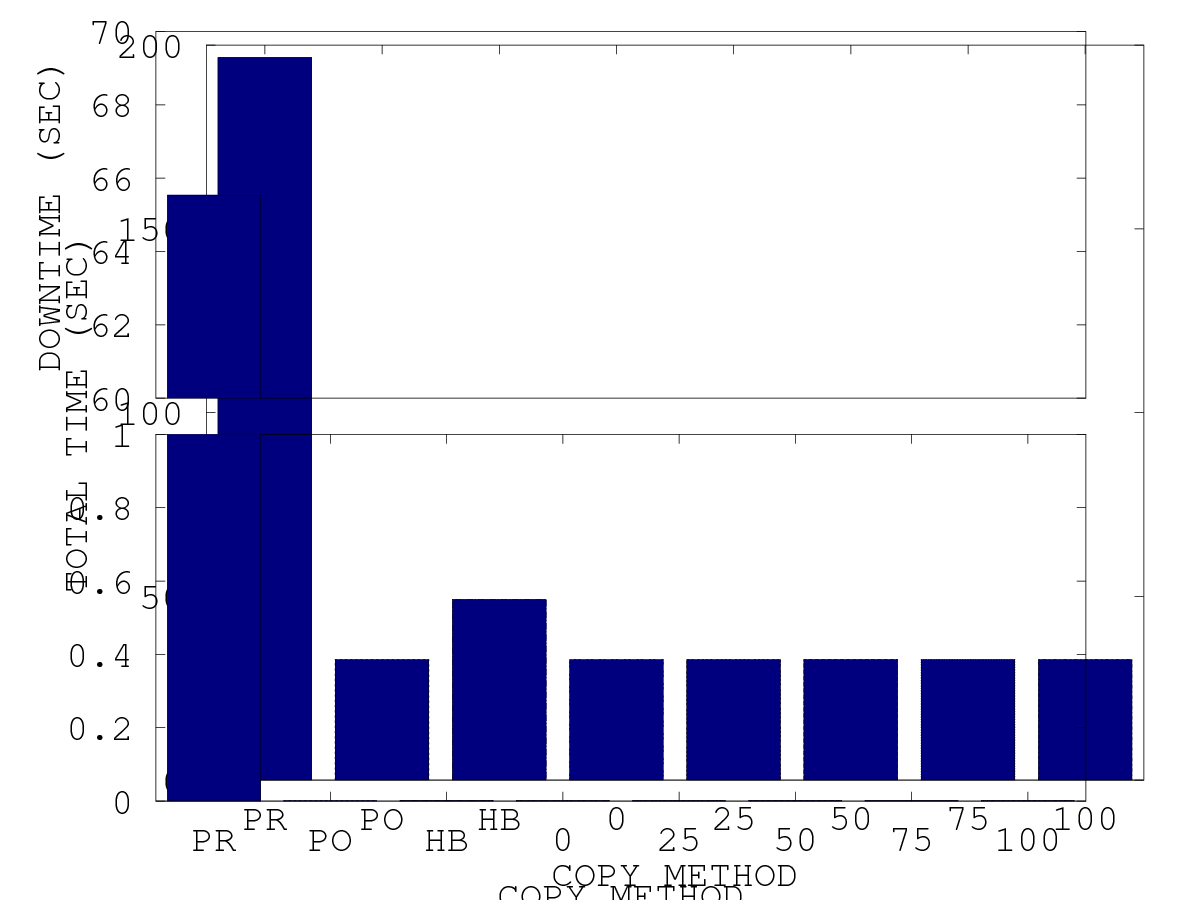
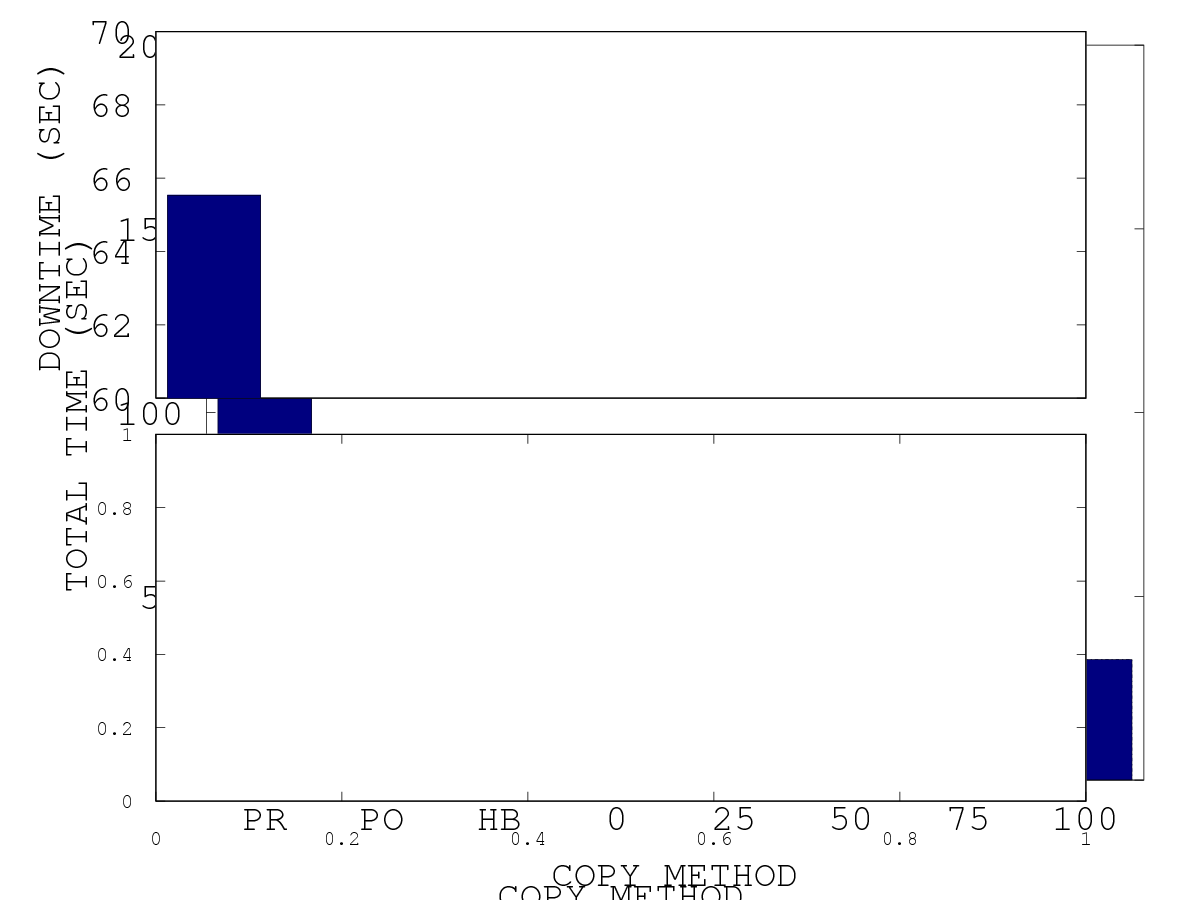
basic_break.m

diff --git a/basic_break.m b/basic_break.m
@@ -319,9 +319,9 @@ delete(gcf);
 a1 = axes ('position', [p0(1) p0(2) p0(3) p0(4)/2]);
 
 %bar(A(:,2))
-bar(xintervals, A(:,2))
+%bar(xintervals, A(:,2))
 %set(gca, 'XTick', 1:8, 'XTickLabel', x, 'FontSize', fontsize)
-set(gca, 'XTick', xintervals, 'XTickLabel', x, 'FontSize', fontsize)
+%set(gca, 'XTick', xintervals, 'XTickLabel', x, 'FontSize', fontsize)
 set (a1, 'ylim', ylim1);
 xlabel('COPY METHOD', 'FontSize', fontsize);
 %ylabel('DOWNTIME (SEC)', 'FontSize', fontsize);
